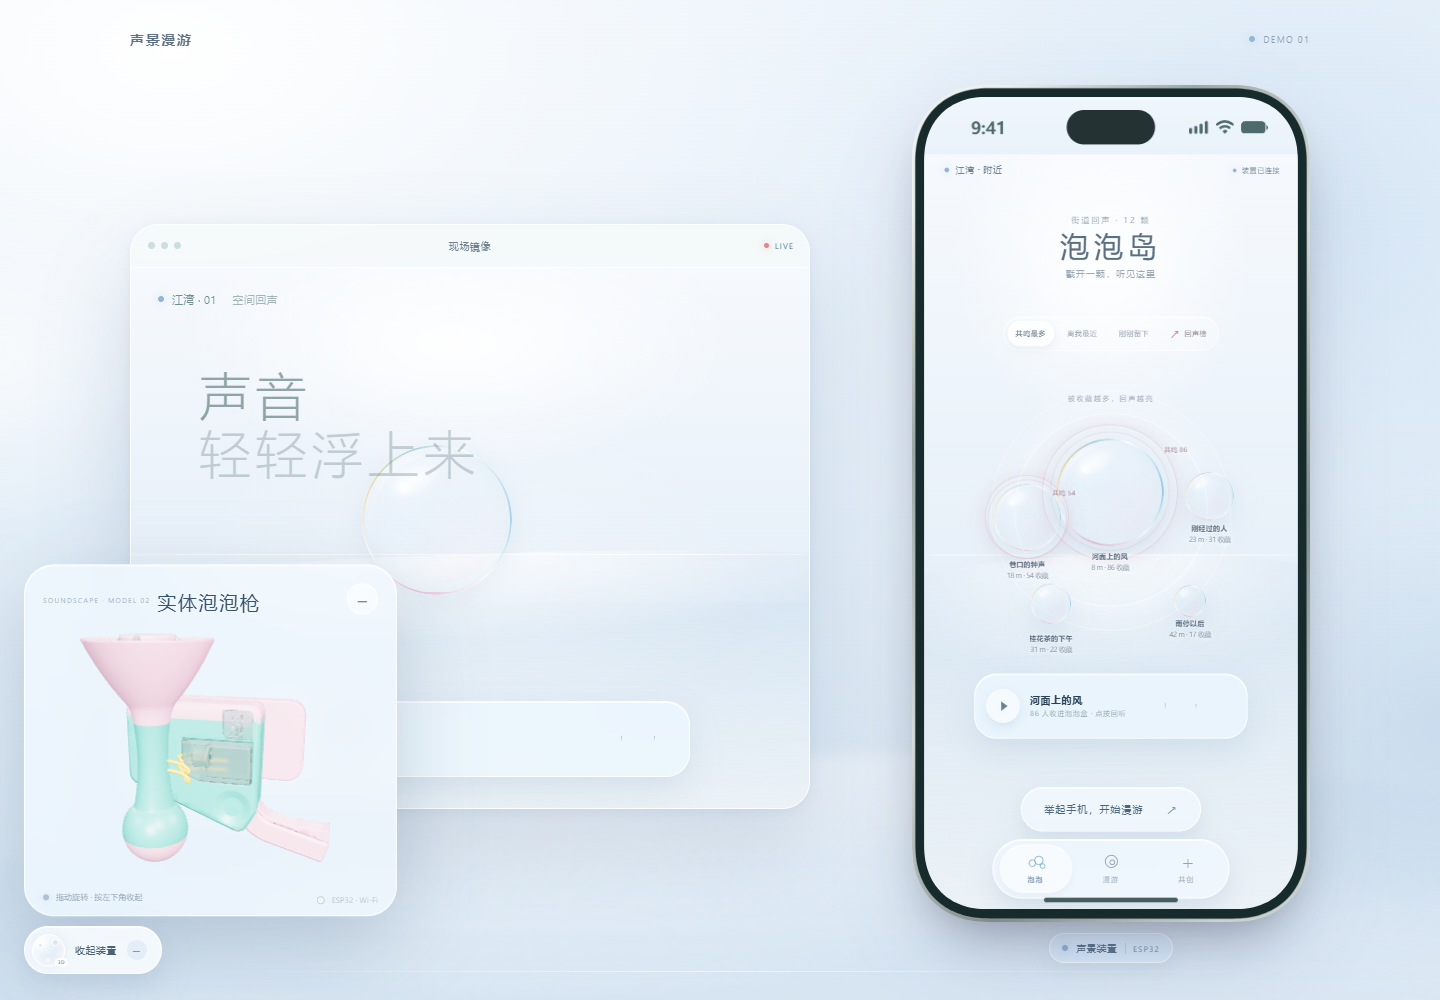
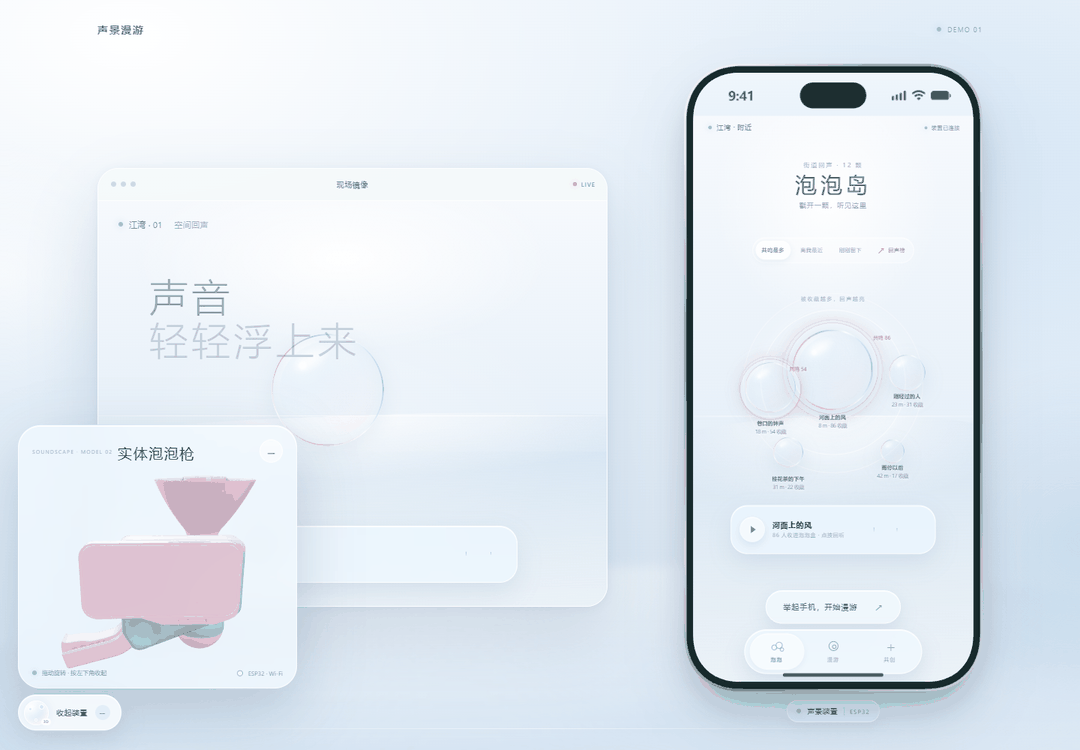
fix: orient device preview toward phone cradle

Changed region(s): [[0.0611, 0.5827, 0.2444, 0.92], [0.2139, 0.8893, 0.2444, 0.92]]

diff --git a/src/DeviceViewer.jsx b/src/DeviceViewer.jsx
@@ -210,6 +210,7 @@ function buildDevice(scene, sourceGeometry) {
 
   const group = new THREE.Group();
   const orient = new THREE.Group();
+  // Default to the broad face of the central phone cradle.
   orient.rotation.y = -Math.PI / 2;
   group.add(orient);
   const body = new THREE.Mesh(geometry, materials);
@@ -244,7 +245,7 @@ function DeviceCanvas({ playing }) {
     if (!mount) return undefined;
     const scene = new THREE.Scene();
     const camera = new THREE.PerspectiveCamera(34, 1, 0.1, 80);
-    camera.position.set(0.65, 1.35, 4.5);
+    camera.position.set(0.65, 1.35, -4.5);
     const renderer = new THREE.WebGLRenderer({ alpha: true, antialias: true, preserveDrawingBuffer: true, powerPreference: 'high-performance' });
     renderer.setPixelRatio(Math.min(window.devicePixelRatio || 1, 2));
     renderer.setSize(mount.clientWidth, mount.clientHeight);
@@ -280,8 +281,7 @@ function DeviceCanvas({ playing }) {
     controls.dampingFactor = 0.075;
     controls.enablePan = false;
     controls.enableZoom = false;
-    controls.autoRotate = true;
-    controls.autoRotateSpeed = 0.48;
+    controls.autoRotate = false;
     controls.target.set(0, 0.04, 0);
 
     const timer = new THREE.Timer();
@@ -418,3 +418,4 @@ export default function DeviceViewer({ open, onClose, playing }) {
     </section>
   );
 }
+

diff --git a/README.md b/README.md
@@ -33,7 +33,7 @@ flowchart LR
 - **漫游**：在真实街道照片上进行 AR 风格瞄准，缩放并选中不同距离或高度的泡泡；按装置实体键触发捕捉。
 - **共创**：选择“给下一位”或“留在此刻”，录音、试听、绑定位置并发布。
 - **设备状态**：显示声景装置连接与播放状态。
-- **设备模型**：桌面左下角入口打开可拖动旋转的 Three.js 泡泡枪。模型来自最新 STL，预览采用薄荷绿磨砂机身、浅粉喇叭与握把、暖黄功能件、透明储液仓和金属细节；模型资源压缩后按需加载。
+- **设备模型**：桌面左下角入口打开 Three.js 泡泡枪；默认正对机身中央的手机夹持面，拖动可查看其他角度。模型采用薄荷绿磨砂机身、浅粉夹持件与握把、暖黄功能件、透明储液仓和金属细节；模型资源压缩后按需加载。
 - **现场镜像**：桌面演示页同步展示手机当前界面，供 Demo Day 观众观看和参与共选。
 
 ## 本地运行
@@ -79,3 +79,4 @@ npm run build
 ## 给 AI coding agent 的入口
 
 开始修改前先读 [`AGENTS.md`](./AGENTS.md)、[`docs/product-context.md`](./docs/product-context.md) 和 [`docs/demo-scope.md`](./docs/demo-scope.md)。实现中请明确区分“原型模拟”和“真实硬件/定位/音频集成”，不要把尚未接入的能力描述为已完成。
+
